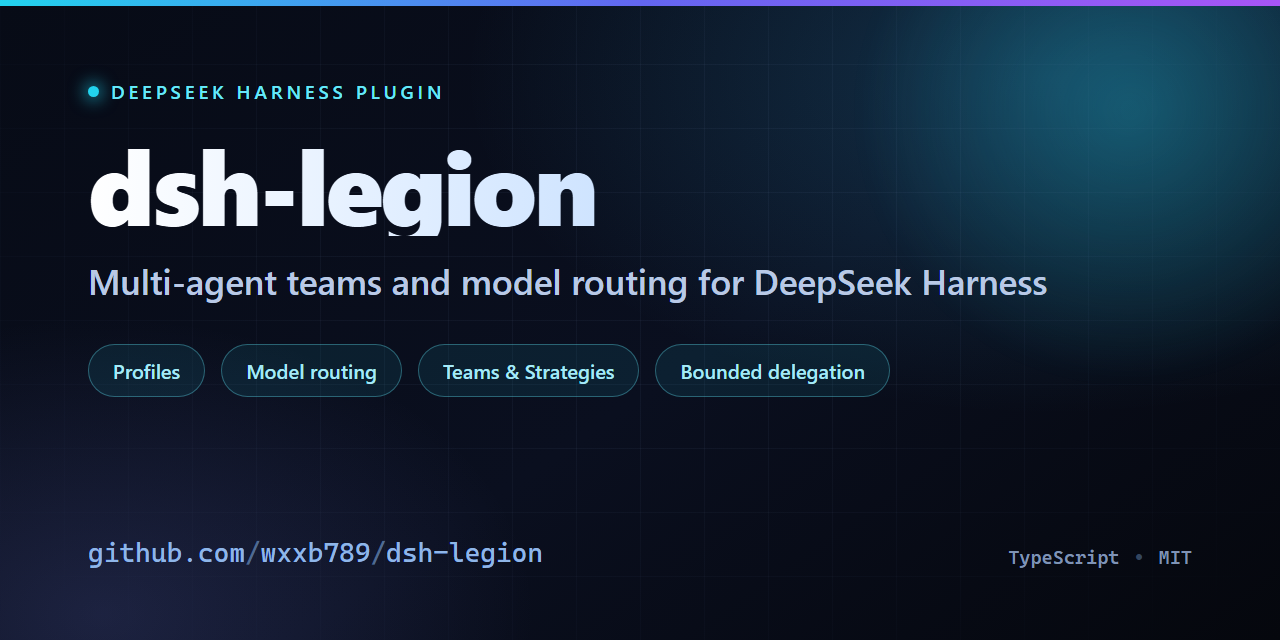
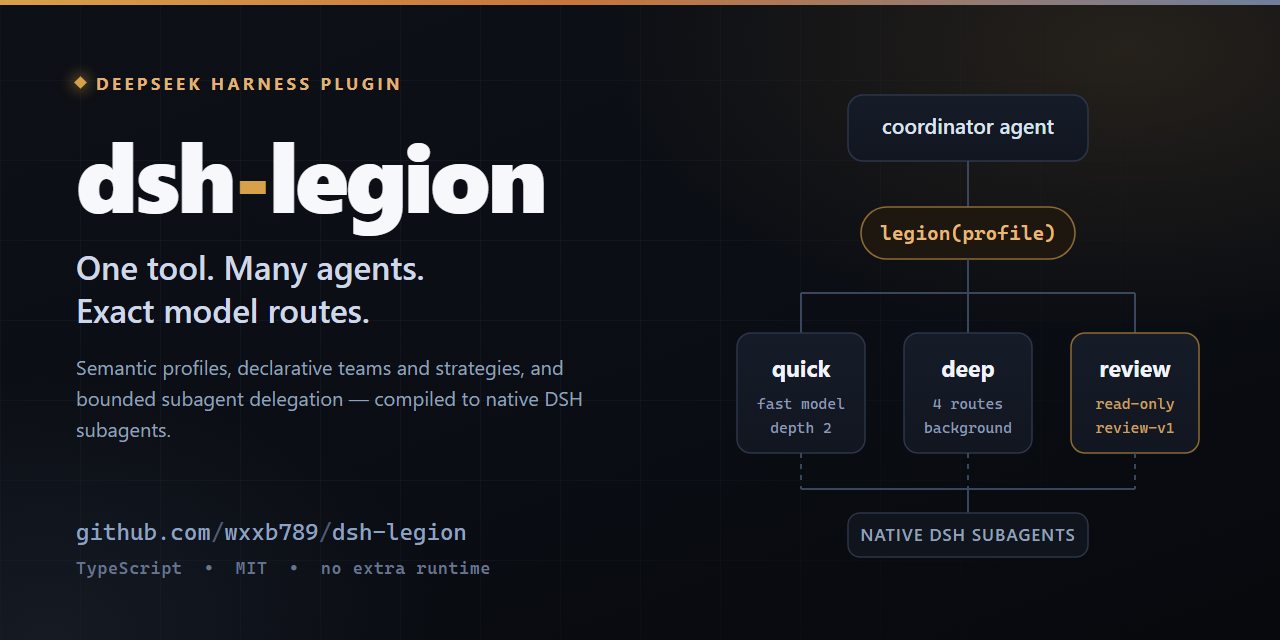
docs(seo): retarget discovery metadata and redraw the social preview
Improve GitHub and search discovery without changing runtime behavior.

- Social preview: redraw the 1280x640 card as a delegation diagram
  (coordinator -> legion(profile) -> quick/deep/review -> native DSH
  subagents) on a dark slate and bronze palette. The previous card set
  `line-height:1.02` on a `background-clip:text` heading, so the descender
  of the `g` in "dsh-legion" fell outside the background box and rendered
  transparent; the bottom third of the card was also empty. Both are fixed,
  and the PNG shrinks from 502 kB to 298 kB.
- README (EN and zh-CN): retitle around "multi-agent orchestration" and
  "LLM model routing", describe the banner's actual content in the alt
  text, rewrite the lead paragraph around the agent-team outcome, and add
  a "dsh-legion vs standalone multi-agent frameworks" comparison table.
  The FAQ entry now names LangGraph, CrewAI, and AutoGen directly and
  cross-references that section instead of repeating it.
- package.json: front-load the description with the capability rather than
  the host name, and add the ai-agent, agentic-ai, multi-agent-systems,
  and llm-orchestration keywords.

Repository topics were retargeted in the same pass through the GitHub API:
`ai`, `typescript`, `multi-model`, and `multi-agent-system` were replaced
with `agentic-ai`, `llm-orchestration`, `multi-agent-systems`, and
`orchestration`. Topic pages rank by stars, so the six-figure topics this
[…]

diff --git a/.github/assets/social-preview.html b/.github/assets/social-preview.html
@@ -2,73 +2,106 @@
 <html lang="en">
 <head>
 <meta charset="utf-8">
-<title>dsh-legion social preview</title>
+<title>dsh-legion social preview A</title>
 <style>
   * { margin:0; padding:0; box-sizing:border-box; }
-  html, body { width:1280px; height:640px; overflow:hidden; background:#05070d; }
+  html, body { width:1280px; height:640px; overflow:hidden; background:#0a0c10; }
   .card {
     position:relative; width:1280px; height:640px; overflow:hidden;
     background:
-      radial-gradient(900px 520px at 82% 12%, rgba(56,189,248,0.20), transparent 65%),
-      radial-gradient(700px 480px at 8% 96%, rgba(129,140,248,0.16), transparent 62%),
-      linear-gradient(145deg, #070b16 0%, #0a0f1f 55%, #05070d 100%);
-    font-family: "Segoe UI", -apple-system, BlinkMacSystemFont, Roboto, "Helvetica Neue", Arial, sans-serif;
-    color:#e8eefc;
+      radial-gradient(760px 420px at 88% 8%, rgba(217,160,74,0.13), transparent 68%),
+      radial-gradient(620px 420px at 4% 100%, rgba(120,140,180,0.10), transparent 64%),
+      linear-gradient(160deg, #0d1016 0%, #0a0d13 60%, #07090d 100%);
+    font-family:"Segoe UI", -apple-system, BlinkMacSystemFont, Roboto, Arial, sans-serif;
+    color:#e9edf5;
   }
   .grid {
     position:absolute; inset:0;
     background-image:
-      linear-gradient(rgba(148,178,230,0.055) 1px, transparent 1px),
-      linear-gradient(90deg, rgba(148,178,230,0.055) 1px, transparent 1px);
-    background-size:64px 64px;
-    -webkit-mask-image: radial-gradient(1000px 620px at 50% 40%, #000 30%, transparent 88%);
-            mask-image: radial-gradient(1000px 620px at 50% 40%, #000 30%, transparent 88%);
+      linear-gradient(rgba(150,170,205,0.05) 1px, transparent 1px),
+      linear-gradient(90deg, rgba(150,170,205,0.05) 1px, transparent 1px);
+    background-size:80px 80px;
+    -webkit-mask-image: radial-gradient(1100px 700px at 30% 45%, #000 25%, transparent 85%);
   }
-  .glow { position:absolute; right:-160px; top:-200px; width:620px; height:620px;
-    background:radial-gradient(circle, rgba(34,211,238,0.28), transparent 62%); filter:blur(10px); }
-  .accentbar { position:absolute; left:0; top:0; width:100%; height:6px;
-    background:linear-gradient(90deg,#22d3ee 0%, #6366f1 50%, #a855f7 100%); }
-  .inner { position:relative; padding:78px 88px 72px; height:100%; display:flex; flex-direction:column; }
-  .eyebrow { display:inline-flex; align-items:center; gap:12px; font-size:19px; font-weight:600;
-    letter-spacing:0.20em; text-transform:uppercase; color:#67e8f9; }
-  .eyebrow .dot { width:11px; height:11px; border-radius:50%; background:#22d3ee;
-    box-shadow:0 0 16px 4px rgba(34,211,238,0.55); }
-  h1 { margin-top:26px; font-size:104px; line-height:1.02; font-weight:800; letter-spacing:-0.035em;
-    background:linear-gradient(92deg,#ffffff 0%, #cfe4ff 46%, #8ed8f8 100%);
-    -webkit-background-clip:text; background-clip:text; color:transparent; }
-  .tagline { margin-top:22px; font-size:35px; font-weight:500; line-height:1.32; color:#b9c9e6; max-width:960px; }
-  .pills { margin-top:40px; display:flex; gap:16px; flex-wrap:wrap; }
-  .pill { font-size:20px; font-weight:600; padding:12px 24px; border-radius:999px;
-    border:1px solid rgba(103,232,249,0.34); background:rgba(34,211,238,0.09); color:#a5e9f7; white-space:nowrap; }
+  .accentbar { position:absolute; left:0; top:0; width:100%; height:5px;
+    background:linear-gradient(90deg,#d9a04a 0%, #c8763c 45%, #6f7f9d 100%); }
+  .inner { position:relative; height:100%; padding:70px 76px 62px; display:flex; gap:56px; }
+  .left { width:600px; display:flex; flex-direction:column; }
+  .eyebrow { display:inline-flex; align-items:center; gap:11px; font-size:17px; font-weight:700;
+    letter-spacing:0.2em; text-transform:uppercase; color:#e0b276; }
+  .eyebrow .dot { width:9px; height:9px; background:#d9a04a; transform:rotate(45deg);
+    box-shadow:0 0 14px 3px rgba(217,160,74,0.45); }
+  h1 { margin-top:24px; font-size:96px; line-height:1.16; padding-bottom:6px; font-weight:800;
+    letter-spacing:-0.035em; color:#f6f8fc; }
+  h1 .dash { color:#d9a04a; }
+  .tag { margin-top:10px; font-size:33px; font-weight:600; line-height:1.3; color:#cfd8e8; }
+  .desc { margin-top:20px; font-size:20px; line-height:1.55; color:#93a1ba; max-width:560px; }
   .spacer { flex:1; }
-  .footer { display:flex; align-items:flex-end; justify-content:space-between; }
-  .url { font-family: "Cascadia Code", Consolas, "SF Mono", Menlo, "DejaVu Sans Mono", monospace;
-    font-size:27px; color:#8fb6e8; letter-spacing:-0.005em; }
-  .url .slash { color:#4f6a92; }
-  .meta { display:flex; align-items:center; gap:14px; font-size:19px; font-weight:600; color:#7f93b5;
-    font-family:"Cascadia Code", Consolas, "SF Mono", Menlo, monospace; }
-  .meta .sep { color:#33455f; }
+  .foot { display:flex; flex-direction:column; gap:13px; }
+  .url { font-family:"Cascadia Code", Consolas, "DejaVu Sans Mono", monospace; font-size:23px; color:#8fa2c0; }
+  .url .s { color:#4c5b74; }
+  .meta { font-family:"Cascadia Code", Consolas, monospace; font-size:17px; font-weight:600; color:#66748d; letter-spacing:0.04em; }
+  .right { flex:1; display:flex; align-items:center; justify-content:center; }
 </style>
 </head>
 <body>
   <div class="card">
-    <div class="glow"></div>
     <div class="grid"></div>
     <div class="accentbar"></div>
     <div class="inner">
-      <div><span class="eyebrow"><span class="dot"></span>DeepSeek Harness plugin</span></div>
-      <h1>dsh-legion</h1>
-      <div class="tagline">Multi-agent teams and model routing for DeepSeek Harness</div>
-      <div class="pills">
-        <span class="pill">Profiles</span>
-        <span class="pill">Model routing</span>
-        <span class="pill">Teams &amp; Strategies</span>
-        <span class="pill">Bounded delegation</span>
+      <div class="left">
+        <div><span class="eyebrow"><span class="dot"></span>DeepSeek Harness plugin</span></div>
+        <h1>dsh<span class="dash">-</span>legion</h1>
+        <div class="tag">One tool. Many agents.<br>Exact model routes.</div>
+        <div class="desc">Semantic profiles, declarative teams and strategies, and bounded subagent delegation &mdash; compiled to native DSH subagents.</div>
+        <div class="spacer"></div>
+        <div class="foot">
+          <div class="url">github.com<span class="s">/</span>wxxb789<span class="s">/</span>dsh-legion</div>
+          <div class="meta">TypeScript &nbsp;&bull;&nbsp; MIT &nbsp;&bull;&nbsp; no extra runtime</div>
+        </div>
       </div>
-      <div class="spacer"></div>
-      <div class="footer">
-        <div class="url">github.com<span class="slash">/</span>wxxb789<span class="slash">/</span>dsh-legion</div>
-        <div class="meta"><span>TypeScript</span><span class="sep">&bull;</span><span>MIT</span></div>
+      <div class="right">
+        <svg width="470" height="470" viewBox="0 0 470 470" fill="none" xmlns="http://www.w3.org/2000/svg">
+          <defs>
+            <linearGradient id="cardg" x1="0" y1="0" x2="0" y2="1">
+              <stop offset="0" stop-color="#161c27"/><stop offset="1" stop-color="#111621"/>
+            </linearGradient>
+          </defs>
+          <!-- coordinator -->
+          <rect x="115" y="6" width="240" height="66" rx="15" fill="url(#cardg)" stroke="#2c3648" stroke-width="1.5"/>
+          <text x="235" y="45" text-anchor="middle" font-family="Segoe UI, sans-serif" font-size="21" font-weight="600" fill="#dbe3f0">coordinator agent</text>
+          <path d="M235 72 V118" stroke="#3a465c" stroke-width="2"/>
+          <!-- legion tool -->
+          <rect x="128" y="118" width="214" height="52" rx="26" fill="#1d1710" stroke="#8c6a34" stroke-width="1.6"/>
+          <text x="235" y="151" text-anchor="middle" font-family="Cascadia Code, Consolas, monospace" font-size="20" font-weight="600" fill="#e6b878">legion(profile)</text>
+          <path d="M235 170 V204" stroke="#3a465c" stroke-width="2"/>
+          <path d="M68 204 H402" stroke="#3a465c" stroke-width="2"/>
+          <path d="M68 204 V244 M235 204 V244 M402 204 V244" stroke="#3a465c" stroke-width="2"/>
+          <!-- profile cards -->
+          <g>
+            <rect x="4" y="244" width="128" height="120" rx="14" fill="url(#cardg)" stroke="#2c3648" stroke-width="1.5"/>
+            <text x="68" y="288" text-anchor="middle" font-family="Segoe UI, sans-serif" font-size="23" font-weight="700" fill="#f0f4fa">quick</text>
+            <text x="68" y="320" text-anchor="middle" font-family="Cascadia Code, Consolas, monospace" font-size="15" fill="#8b9ab4">fast model</text>
+            <text x="68" y="344" text-anchor="middle" font-family="Cascadia Code, Consolas, monospace" font-size="15" fill="#8b9ab4">depth 2</text>
+          </g>
+          <g>
+            <rect x="171" y="244" width="128" height="120" rx="14" fill="url(#cardg)" stroke="#2c3648" stroke-width="1.5"/>
+            <text x="235" y="288" text-anchor="middle" font-family="Segoe UI, sans-serif" font-size="23" font-weight="700" fill="#f0f4fa">deep</text>
+            <text x="235" y="320" text-anchor="middle" font-family="Cascadia Code, Consolas, monospace" font-size="15" fill="#8b9ab4">4 routes</text>
+            <text x="235" y="344" text-anchor="middle" font-family="Cascadia Code, Consolas, monospace" font-size="15" fill="#8b9ab4">background</text>
+          </g>
+          <g>
+            <rect x="338" y="244" width="128" height="120" rx="14" fill="url(#cardg)" stroke="#8c6a34" stroke-width="1.5"/>
+            <text x="402" y="288" text-anchor="middle" font-family="Segoe UI, sans-serif" font-size="23" font-weight="700" fill="#f0f4fa">review</text>
+            <text x="402" y="320" text-anchor="middle" font-family="Cascadia Code, Consolas, monospace" font-size="15" fill="#c9a066">read-only</text>
+            <text x="402" y="344" text-anchor="middle" font-family="Cascadia Code, Consolas, monospace" font-size="15" fill="#c9a066">review-v1</text>
+          </g>
+          <path d="M68 364 V400 M235 364 V400 M402 364 V400" stroke="#3a465c" stroke-width="2" stroke-dasharray="5 6"/>
+          <path d="M68 400 H402" stroke="#3a465c" stroke-width="2"/>
+          <path d="M235 400 V424" stroke="#3a465c" stroke-width="2"/>
+          <rect x="115" y="424" width="240" height="44" rx="12" fill="#0f141d" stroke="#2c3648" stroke-width="1.5"/>
+          <text x="235" y="452" text-anchor="middle" font-family="Segoe UI, sans-serif" font-size="17" font-weight="600" fill="#93a1ba" letter-spacing="1">NATIVE DSH SUBAGENTS</text>
+        </svg>
       </div>
     </div>
   </div>

diff --git a/README.md b/README.md
@@ -1,9 +1,9 @@
-# dsh-legion: Multi-Agent Teams and Model Routing for DeepSeek Harness
+# dsh-legion: Multi-Agent Orchestration and LLM Model Routing for DeepSeek Harness
 
 **English** · [简体中文](README.zh-cn.md)
 
 <p align="center">
-  <a href="https://github.com/wxxb789/dsh-legion"><img src="https://raw.githubusercontent.com/wxxb789/dsh-legion/main/.github/assets/social-preview.png" alt="dsh-legion: multi-agent teams, model routing, and declarative orchestration for DeepSeek Harness" width="840"></a>
+  <a href="https://github.com/wxxb789/dsh-legion"><img src="https://raw.githubusercontent.com/wxxb789/dsh-legion/main/.github/assets/social-preview.png" alt="dsh-legion architecture: a coordinator agent calls one legion tool, which routes to quick, deep, and review profiles that run as native DeepSeek Harness subagents" width="840"></a>
 </p>
 
 [![CI](https://github.com/wxxb789/dsh-legion/actions/workflows/ci.yml/badge.svg)](https://github.com/wxxb789/dsh-legion/actions/workflows/ci.yml)
@@ -12,7 +12,7 @@
 [![TypeScript](https://img.shields.io/badge/TypeScript-strict-3178C6?logo=typescript&logoColor=white)](tsconfig.json)
 [![DSH plugin](https://img.shields.io/badge/DeepSeek%20Harness-dsh--plugin-5b4ee5?logo=github&logoColor=white)](https://github.com/topics/dsh-plugin)
 
-**dsh-legion** is a TypeScript multi-agent orchestration plugin for [DeepSeek Harness (DSH)](https://github.com/deepseek-ai/deepseek-harness). It adds configurable AI agent Profiles, exact model routing, declarative Teams and Strategies, structured results, and bounded subagent delegation without replacing the DSH runtime.
+**dsh-legion** is a TypeScript multi-agent orchestration plugin for [DeepSeek Harness (DSH)](https://github.com/deepseek-ai/deepseek-harness). It turns one AI coding agent into a bounded agent team: configurable AI agent Profiles, an exact LLM model router, declarative Teams and Strategies, structured results, and depth-limited subagent delegation — without replacing the DSH runtime.
 
 ## TL;DR
 
@@ -44,6 +44,7 @@ The coordinator now sees one `legion` tool whose `profile` values are your seman
 - [TL;DR](#tldr)
 - [Quick start](#quick-start)
 - [What is dsh-legion used for?](#what-is-dsh-legion-used-for)
+- [dsh-legion vs standalone multi-agent frameworks](#dsh-legion-vs-standalone-multi-agent-frameworks)
 - [Capabilities](#capabilities)
 - [How it works](#how-it-works)
   - [Under the hood: from tool call to child agent](#under-the-hood-from-tool-call-to-child-agent)
@@ -72,6 +73,22 @@ Legion is useful when one AI coding agent should delegate different kinds of wor
 - **Customize without forking.** Add, replace, disable, or revive Profiles, Teams, and Strategies through Catalog Layers.
 
 Legion is for developers and deployment owners who already use DSH and want configurable multi-agent delegation without adopting another scheduler, session store, or agent runtime.
+
+## dsh-legion vs standalone multi-agent frameworks
+
+Standalone multi-agent frameworks such as LangGraph, CrewAI, and AutoGen ship their own runtime, state model, and process lifecycle, so adopting one places a second orchestrator beside the coding agent you already run. Legion takes the opposite approach: it adds no runtime at all and compiles delegation policy down to native DSH subagents.
+
+| | dsh-legion | A standalone agent framework |
+|---|---|---|
+| What you adopt | Delegation policy for an agent you already run | A second runtime, state model, and process lifecycle |
+| Who owns the agent loop | DeepSeek Harness | The framework |
+| Sessions, sandbox, approvals, model adapters | DSH-owned and unchanged | Framework-owned, parallel to your agent's |
+| Model selection | Ordered exact provider/model Route Candidates per Profile | Usually wired per node or per agent in code |
+| Cost to adopt | One configuration row in a user-owned preset | A new dependency tree, service, or process |
+| Prompt authority | A prompt selects a Profile and can never widen that Profile's model, tools, persona, or depth | Varies by framework |
+| Wrong tool when | You do not run DSH | You want one self-contained orchestrator |
+
+If you are not running DeepSeek Harness, Legion is not the right tool, and a standalone framework is the better fit.
 
 ## Capabilities
 
@@ -486,9 +503,9 @@ Known limitations:
 
 No. It is a DeepSeek Harness plugin for multi-agent policy and delegation. DSH remains the runtime and lifecycle owner.
 
-### How does it compare with standalone multi-agent frameworks?
+### How does it compare with LangGraph, CrewAI, or AutoGen?
 
-Frameworks such as LangGraph, CrewAI, or AutoGen ship their own runtime, state model, and process lifecycle, so adopting one adds a second orchestrator beside your agent. Legion adds no runtime at all: it is declarative delegation policy for a DSH deployment you already run, compiled to native DSH subagents. If you are not running DSH, Legion is not the right tool.
+Those frameworks ship their own runtime, state model, and process lifecycle, so adopting one adds a second orchestrator beside your agent. Legion adds no runtime at all: it is declarative delegation policy for a DSH deployment you already run, compiled to native DSH subagents. See [dsh-legion vs standalone multi-agent frameworks](#dsh-legion-vs-standalone-multi-agent-frameworks) for the full comparison.
 
 ### Which LLM providers and models can it route to?
 
